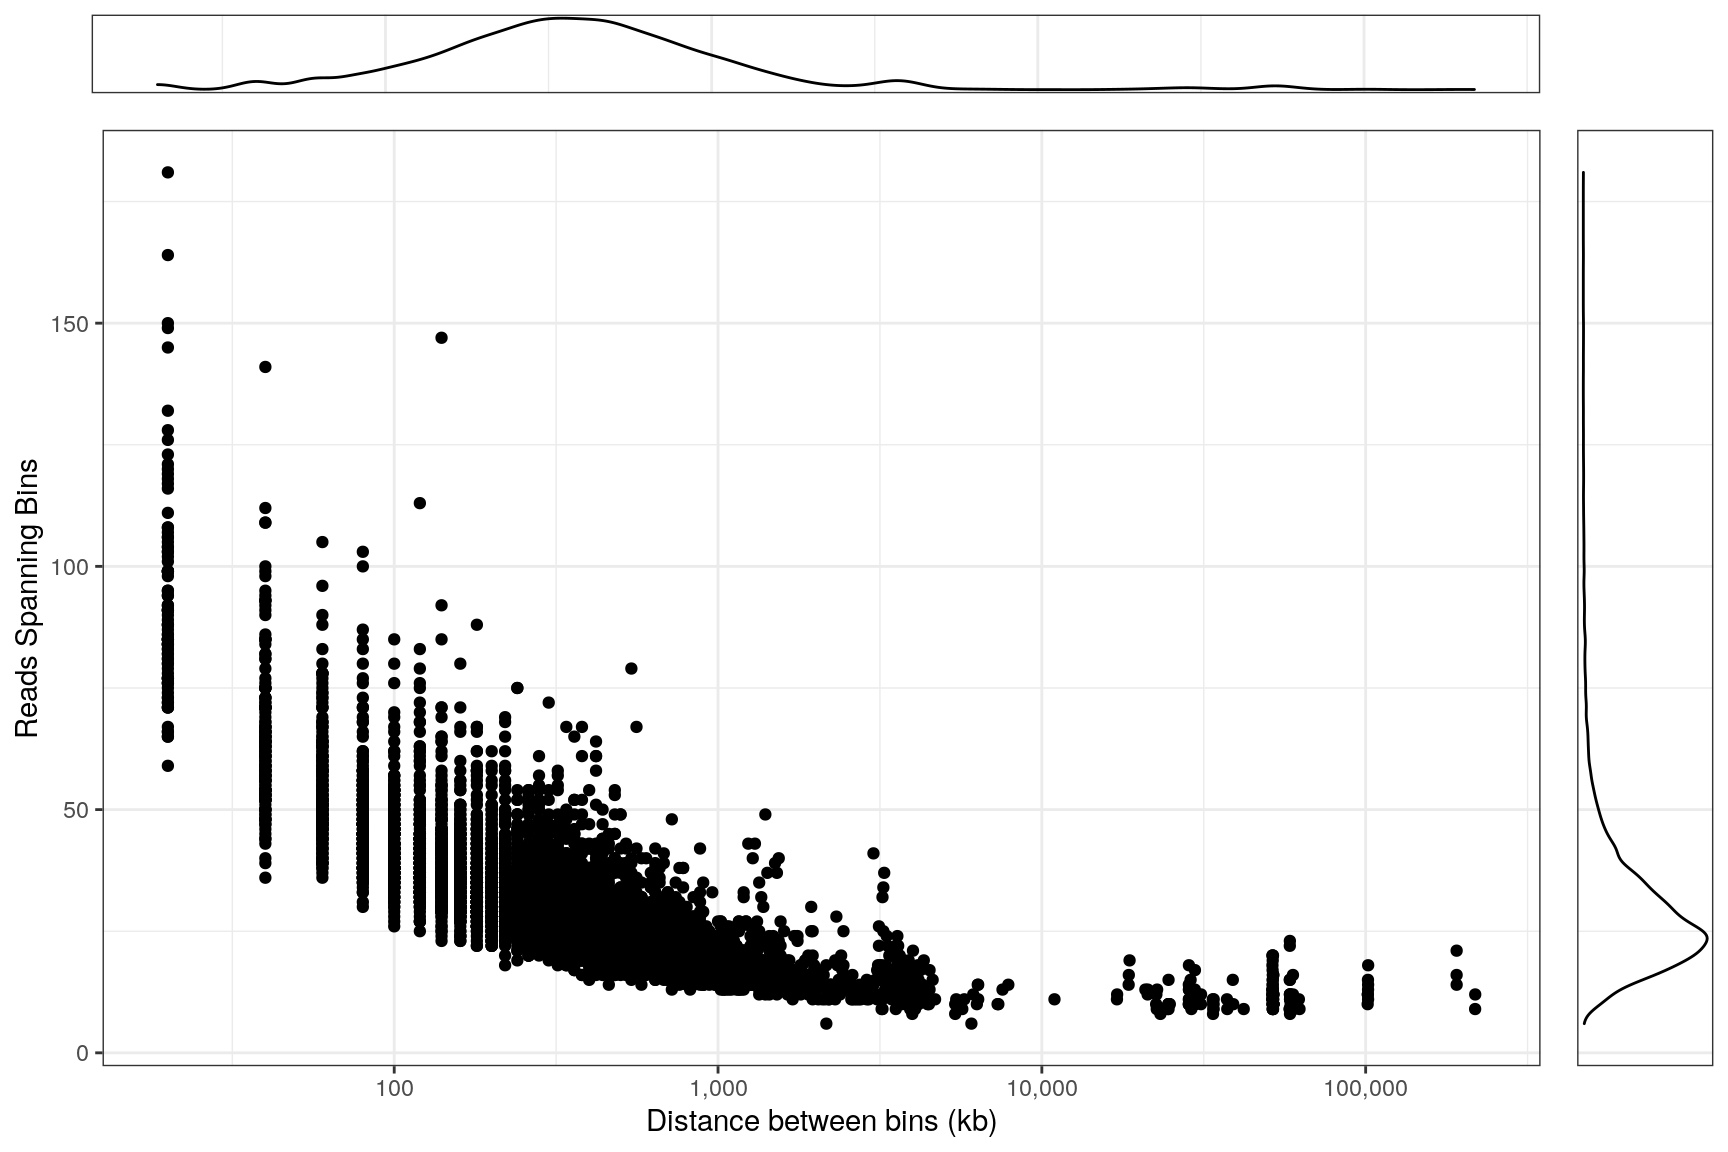
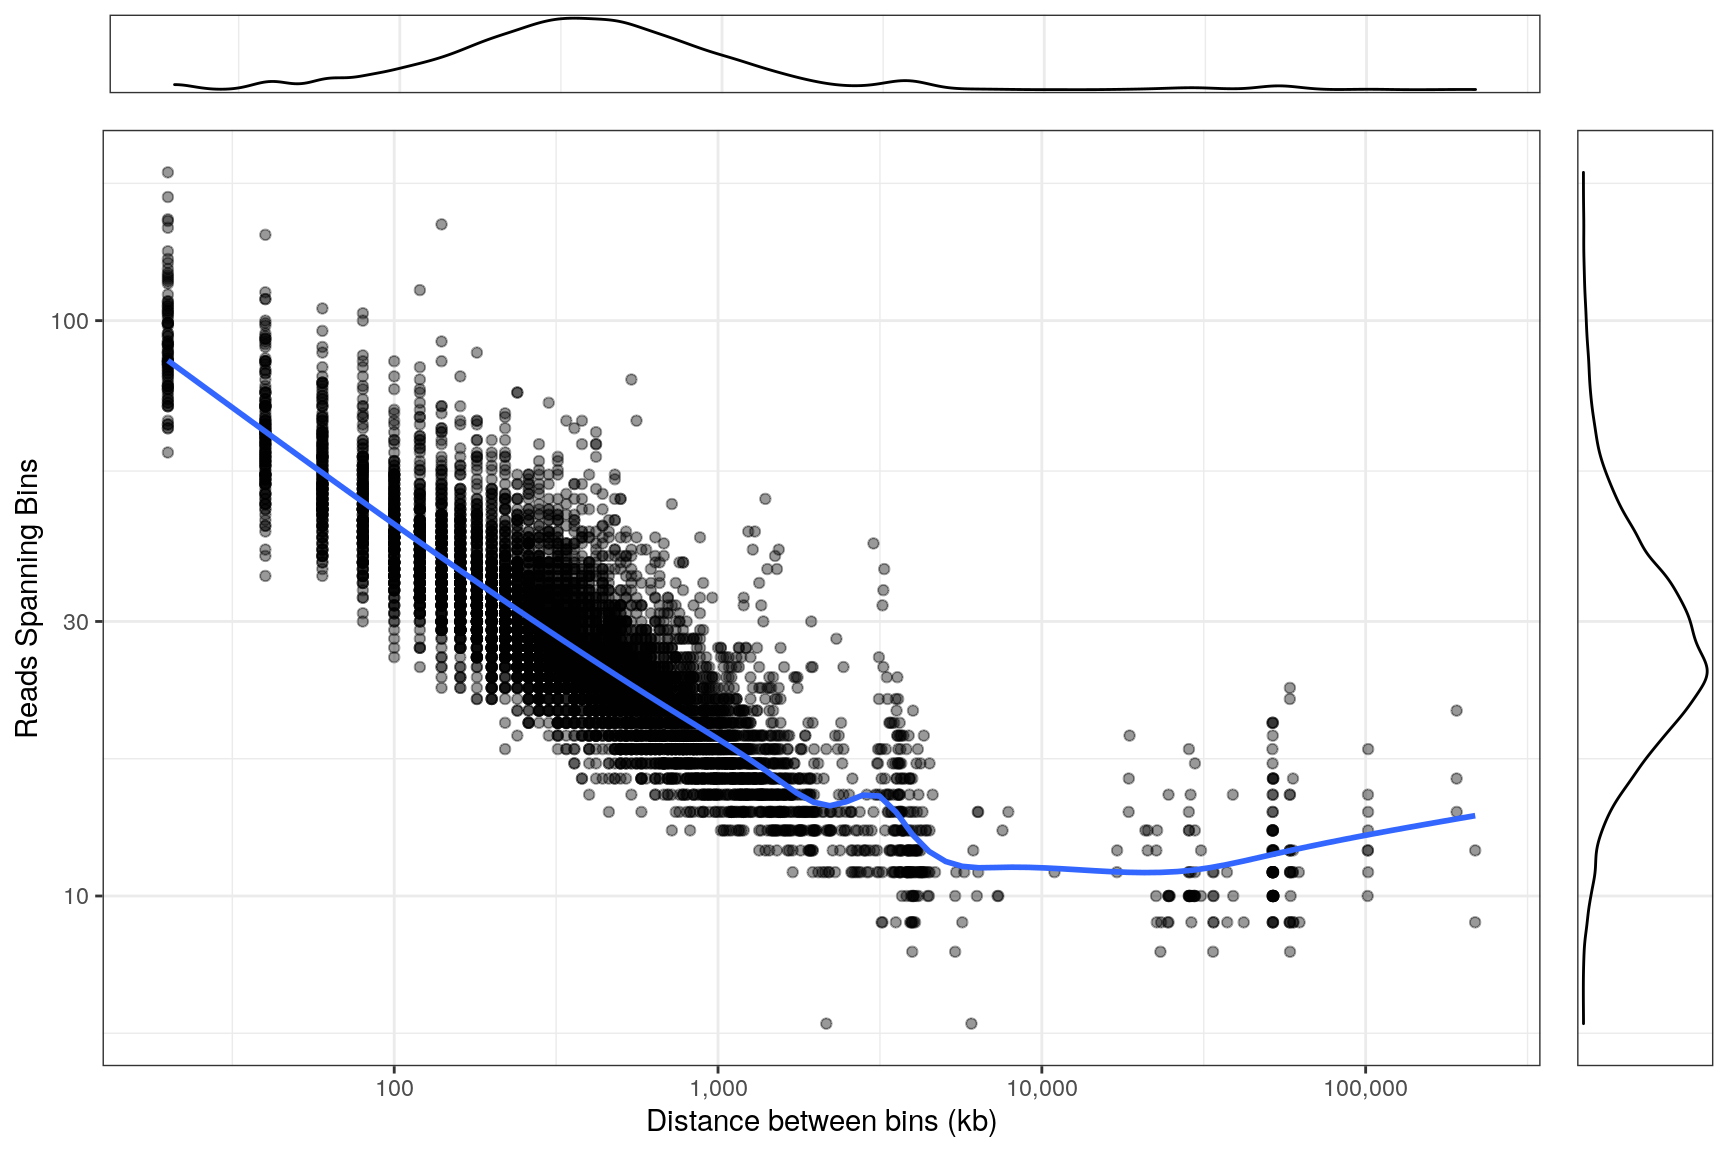
Build site.

diff --git a/docs/interactions_setup.html b/docs/interactions_setup.html
@@ -429,7 +429,7 @@ div.tocify {
 
 <h1 class="title toc-ignore">Interactions Setup</h1>
 <h4 class="author">Stephen Pederson<br>Dame Roma Mitchell Cancer Research Laboratories<br>Adelaide Medical School<br>University of Adelaide</h4>
-<h4 class="date">23 November, 2020</h4>
+<h4 class="date">24 November, 2020</h4>
 
 </div>
 
@@ -454,7 +454,7 @@ div.tocify {
 <div class="tab-content">
 <div id="summary" class="tab-pane fade in active">
 <p>
-<strong>Last updated:</strong> 2020-11-23
+<strong>Last updated:</strong> 2020-11-24
 </p>
 <p>
 <strong>Checks:</strong> <span class="glyphicon glyphicon-ok text-success" aria-hidden="true"></span> 7 <span class="glyphicon glyphicon-exclamation-sign text-danger" aria-hidden="true"></span> 0
@@ -545,16 +545,16 @@ This reproducible <a href="http://rmarkdown.rstudio.com">R Markdown</a> analysis
 <div class="panel panel-default">
 <div class="panel-heading">
 <p class="panel-title">
-<a data-toggle="collapse" data-parent="#workflowr-checks" href="#strongRepositoryversionstrongahrefhttpsgithubcomDRMCRLENCODET47DHiCENCSR549MGQtree3a30d29063c4a21f7cc84a441f0e458369fae1c7targetblank3a30d29a"> <span class="glyphicon glyphicon-ok text-success" aria-hidden="true"></span> <strong>Repository version:</strong> <a href="https://github.com/DRMCRL/ENCODE_T47D_HiC_ENCSR549MGQ/tree/3a30d29063c4a21f7cc84a441f0e458369fae1c7" target="_blank">3a30d29</a> </a>
+<a data-toggle="collapse" data-parent="#workflowr-checks" href="#strongRepositoryversionstrongahrefhttpsgithubcomDRMCRLENCODET47DHiCENCSR549MGQtreea387c7d31362fff2c24c845fd83880e94b79ca89targetblanka387c7da"> <span class="glyphicon glyphicon-ok text-success" aria-hidden="true"></span> <strong>Repository version:</strong> <a href="https://github.com/DRMCRL/ENCODE_T47D_HiC_ENCSR549MGQ/tree/a387c7d31362fff2c24c845fd83880e94b79ca89" target="_blank">a387c7d</a> </a>
 </p>
 </div>
[2 lines of base64/hex data omitted]
 <div class="panel-body">
 <p>
 Great! You are using Git for version control. Tracking code development and connecting the code version to the results is critical for reproducibility.
 </p>
 <p>
-The results in this page were generated with repository version <a href="https://github.com/DRMCRL/ENCODE_T47D_HiC_ENCSR549MGQ/tree/3a30d29063c4a21f7cc84a441f0e458369fae1c7" target="_blank">3a30d29</a>. See the <em>Past versions</em> tab to see a history of the changes made to the R Markdown and HTML files.
+The results in this page were generated with repository version <a href="https://github.com/DRMCRL/ENCODE_T47D_HiC_ENCSR549MGQ/tree/a387c7d31362fff2c24c845fd83880e94b79ca89" target="_blank">a387c7d</a>. See the <em>Past versions</em> tab to see a history of the changes made to the R Markdown and HTML files.
 </p>
 <p>
 Note that you need to be careful to ensure that all relevant files for the analysis have been committed to Git prior to generating the results (you can use <code>wflow_publish</code> or <code>wflow_git_commit</code>). workflowr only checks the R Markdown file, but you know if there are other scripts or data files that it depends on. Below is the status of the Git repository when the results were generated:
@@ -564,12 +564,14 @@ Ignored files:
     Ignored:    .Rhistory
     Ignored:    .Rproj.user/
     Ignored:    .snakemake/
+    Ignored:    analysis/figure/
     Ignored:    data/external/H3K27AC/bam/
     Ignored:    data/external/H3K27AC/bigwig/
     Ignored:    data/external/gencode.v33lift37.annotation.gtf.gz
     Ignored:    output/MaxHiC/
 
 Unstaged changes:
+    Modified:   output/gi_100000.rds
     Modified:   output/gi_20000.rds
 
 </code></pre>
@@ -609,6 +611,40 @@ Message
 </tr>
 </thead>
 <tbody>
+<tr>
+<td>
+Rmd
+</td>
+<td>
+<a href="https://github.com/DRMCRL/ENCODE_T47D_HiC_ENCSR549MGQ/blob/a387c7d31362fff2c24c845fd83880e94b79ca89/analysis/interactions_setup.Rmd" target="_blank">a387c7d</a>
+</td>
+<td>
+Steve Ped
+</td>
+<td>
+2020-11-24
+</td>
+<td>
+Updated 100kb bins &amp; changed to log scale on y-axis
+</td>
+</tr>
+<tr>
+<td>
+html
+</td>
+<td>
+<a href="https://rawcdn.githack.com/DRMCRL/ENCODE_T47D_HiC_ENCSR549MGQ/3689c88fd24d4d3da01a2fe32c3671c1fc286c74/docs/interactions_setup.html" target="_blank">3689c88</a>
+</td>
+<td>
+Steve Ped
+</td>
+<td>
+2020-11-23
+</td>
+<td>
+Build site.
+</td>
+</tr>
 <tr>
 <td>
 Rmd
@@ -1040,8 +1076,10 @@ Steve Ped
 <pre class="r"><code>a &lt;- mcols(gi) %&gt;% 
   as.data.frame %&gt;% 
   ggplot(aes(distance/1e3, counts)) + 
-  geom_point() + 
+  geom_point(alpha = 0.4) + 
+  geom_smooth(se = FALSE, method = &quot;gam&quot;, formula = y ~ s(x, bs = &quot;cs&quot;)) +
   scale_x_log10(labels = comma) +
+  scale_y_log10() +
   labs(
     x = &quot;Distance between bins (kb)&quot;,
     y = &quot;Reads Spanning Bins&quot;
@@ -1052,6 +1090,7 @@ b &lt;- mcols(gi) %&gt;%
   geom_density() + 
   coord_flip() + 
   labs(x = c(), y = &quot;&quot;) +
+  scale_x_log10() +
   theme(
     axis.text = element_blank(), 
     panel.grid.major.x =  element_blank(),
@@ -1073,7 +1112,7 @@ c &lt;- mcols(gi) %&gt;%
     axis.ticks.x = element_blank()
   )
 plot_grid(
-  plot_grid(ngsReports:::.emptyPlot(&quot;&quot;), c, ngsReports:::.emptyPlot(&quot;&quot;), rel_widths = c(0.02, 0.896, 0.102), nrow = 1),
+  plot_grid(ngsReports:::.emptyPlot(&quot;&quot;), c, ngsReports:::.emptyPlot(&quot;&quot;), rel_widths = c(0.03, 0.87, 0.1), nrow = 1),
   plot_grid(a, b, rel_widths = c(0.9, 0.1), align = &quot;h&quot;),
   rel_heights = c(0.1, 0.9), nrow = 2, align = &quot;v&quot;, axis = &quot;r&quot;
 )</code></pre>
@@ -1105,6 +1144,17 @@ Date
 </tr>
 </thead>
 <tbody>
+<tr>
+<td>
+<a href="https://github.com/DRMCRL/ENCODE_T47D_HiC_ENCSR549MGQ/blob/3689c88fd24d4d3da01a2fe32c3671c1fc286c74/docs/figure/interactions_setup.Rmd/plotIntDist10-1.png" target="_blank">3689c88</a>
+</td>
+<td>
+Steve Ped
+</td>
+<td>
+2020-11-23
+</td>
+</tr>
 <tr>
 <td>
 <a href="https://github.com/DRMCRL/ENCODE_T47D_HiC_ENCSR549MGQ/blob/b0e47c8fce748fb4d36f91eb0b99a0ff620f950f/docs/figure/interactions_setup.Rmd/plotIntDist10-1.png" target="_blank">b0e47c8</a>
@@ -1259,8 +1309,10 @@ Steve Ped
 <pre class="r"><code>a &lt;- mcols(gi) %&gt;% 
   as.data.frame %&gt;% 
   ggplot(aes(distance/1e3, counts)) + 
-  geom_point() + 
+  geom_point(alpha = 0.4) + 
+  geom_smooth(se = FALSE, method = &quot;gam&quot;, formula = y ~ s(x, bs = &quot;cs&quot;)) +
   scale_x_log10(labels = comma) +
+  scale_y_log10() +
   labs(
     x = &quot;Distance between bins (kb)&quot;,
     y = &quot;Reads Spanning Bins&quot;
@@ -1271,6 +1323,7 @@ b &lt;- mcols(gi) %&gt;%
   geom_density() + 
   coord_flip() + 
   labs(x = c(), y = &quot;&quot;) +
+  scale_x_log10() +
   theme(
     axis.text = element_blank(), 
     panel.grid.major.x =  element_blank(),
@@ -1292,7 +1345,7 @@ c &lt;- mcols(gi) %&gt;%
     axis.ticks.x = element_blank()
   )
 plot_grid(
-  plot_grid(ngsReports:::.emptyPlot(&quot;&quot;), c, ngsReports:::.emptyPlot(&quot;&quot;), rel_widths = c(0.02, 0.896, 0.102), nrow = 1),
+  plot_grid(ngsReports:::.emptyPlot(&quot;&quot;), c, ngsReports:::.emptyPlot(&quot;&quot;), rel_widths = c(0.03, 0.87, 0.1), nrow = 1),
   plot_grid(a, b, rel_widths = c(0.9, 0.1), align = &quot;h&quot;),
   rel_heights = c(0.1, 0.9), nrow = 2, align = &quot;v&quot;, axis = &quot;r&quot;
 )</code></pre>
@@ -1324,6 +1377,17 @@ Date
 </tr>
 </thead>
 <tbody>
+<tr>
+<td>
+<a href="https://github.com/DRMCRL/ENCODE_T47D_HiC_ENCSR549MGQ/blob/3689c88fd24d4d3da01a2fe32c3671c1fc286c74/docs/figure/interactions_setup.Rmd/plotIntDist20-1.png" target="_blank">3689c88</a>
+</td>
+<td>
+Steve Ped
+</td>
+<td>
+2020-11-23
+</td>
+</tr>
 <tr>
 <td>
 <a href="https://github.com/DRMCRL/ENCODE_T47D_HiC_ENCSR549MGQ/blob/b0e47c8fce748fb4d36f91eb0b99a0ff620f950f/docs/figure/interactions_setup.Rmd/plotIntDist20-1.png" target="_blank">b0e47c8</a>
@@ -1456,8 +1520,10 @@ Steve Ped
 <pre class="r"><code>a &lt;- mcols(gi) %&gt;% 
   as.data.frame %&gt;% 
   ggplot(aes(distance/1e3, counts)) + 
-  geom_point() + 
+  geom_point(alpha = 0.4) + 
+  geom_smooth(se = FALSE, method = &quot;gam&quot;, formula = y ~ s(x, bs = &quot;cs&quot;)) +
   scale_x_log10(labels = comma) +
+  scale_y_log10() +
   labs(
     x = &quot;Distance between bins (kb)&quot;,
     y = &quot;Reads Spanning Bins&quot;
@@ -1468,6 +1534,7 @@ b &lt;- mcols(gi) %&gt;%
   geom_density() + 
   coord_flip() + 
   labs(x = c(), y = &quot;&quot;) +
+  scale_x_log10() +
   theme(
     axis.text = element_blank(), 
     panel.grid.major.x =  element_blank(),
@@ -1489,7 +1556,7 @@ c &lt;- mcols(gi) %&gt;%
     axis.ticks.x = element_blank()
   )
 plot_grid(
-  plot_grid(ngsReports:::.emptyPlot(&quot;&quot;), c, ngsReports:::.emptyPlot(&quot;&quot;), rel_widths = c(0.02, 0.896, 0.102), nrow = 1),
+  plot_grid(ngsReports:::.emptyPlot(&quot;&quot;), c, ngsReports:::.emptyPlot(&quot;&quot;), rel_widths = c(0.03, 0.87, 0.1), nrow = 1),
   plot_grid(a, b, rel_widths = c(0.9, 0.1), align = &quot;h&quot;),
   rel_heights = c(0.1, 0.9), nrow = 2, align = &quot;v&quot;, axis = &quot;r&quot;
 )</code></pre>
@@ -1523,6 +1590,17 @@ Date
 <tbody>
 <tr>
 <td>
+<a href="https://github.com/DRMCRL/ENCODE_T47D_HiC_ENCSR549MGQ/blob/3689c88fd24d4d3da01a2fe32c3671c1fc286c74/docs/figure/interactions_setup.Rmd/plotIntDist40-1.png" target="_blank">3689c88</a>
+</td>
+<td>
+Steve Ped
+</td>
+<td>
+2020-11-23
+</td>
+</tr>
+<tr>
+<td>
 <a href="https://github.com/DRMCRL/ENCODE_T47D_HiC_ENCSR549MGQ/blob/b0e47c8fce748fb4d36f91eb0b99a0ff620f950f/docs/figure/interactions_setup.Rmd/plotIntDist40-1.png" target="_blank">b0e47c8</a>
 </td>
 <td>
@@ -1552,20 +1630,26 @@ gc()</code></pre>
 <pre class="r"><code>cis_int &lt;- vroom(
   glue(&quot;output/MaxHiC/merged/{sz}/cis_interactions.txt.gz&quot;),
   col_types = &quot;dddd-d--&quot;
-)</code></pre>
+)
+fdr &lt;- p.adjust(exp(-cis_int$neg_ln_p_val), &quot;fdr&quot;)
+keepInt &lt;- fdr &lt; 0.05</code></pre>
 <p>By default, any bin pairs with no observed interactions were excluded from the Max-HiC output. Using 100kb bins, a total of 12,144,630 non-zero interactions were observed between bin pairs. The median observed interaction count was 2, whilst the maximum was 1040.</p>
 <p>By default, the FDR provided by Max-HiC is incorrect and was ignored. The MaxHiC output was defined as a <code>GInteractions</code> object, with correct FDR added and interactions filtered for those with an FDR &lt; 0.05</p>
+<pre class="r"><code>gc()</code></pre>
+<pre><code>           used  (Mb) gc trigger   (Mb)  max used   (Mb)
+Ncells  9290980 496.2   17442707  931.6  17442707  931.6
+Vcells 59835974 456.6  232329210 1772.6 506723439 3866.0</code></pre>
 <pre class="r"><code>gi &lt;- GInteractions(
-  anchor1 = bins[as.integer(cis_int$bin1ID)],
-  anchor2 = bins[as.integer(cis_int$bin2ID)],
-  counts = as.integer(cis_int$observed_interactions),
-  exp_interactions = cis_int$exp_interactions,
-  p = exp(-cis_int$neg_ln_p_val)
+  anchor1 = bins[as.integer(cis_int$bin1ID[keepInt])],
+  anchor2 = bins[as.integer(cis_int$bin2ID[keepInt])],
+  counts = as.integer(cis_int$observed_interactions[keepInt]),
+  exp_interactions = cis_int$exp_interactions[keepInt],
+  p = exp(-cis_int$neg_ln_p_val)[keepInt],
+  fdr = fdr[keepInt]
 )
-seqinfo(gi) &lt;- sq
-gi$fdr &lt;- p.adjust(gi$p, &quot;fdr&quot;)
 gi$distance &lt;- pairdist(gi)
-gi$logObsExp &lt;- log2(gi$counts / gi$exp_interactions)</code></pre>
+gi$logObsExp &lt;- log2(gi$counts / gi$exp_interactions)
+seqinfo(gi) &lt;- sq</code></pre>
 <pre class="r"><code>gi &lt;- subset(gi, fdr &lt; 0.05)
 write_rds(
   gi,
@@ -1581,6 +1665,8 @@ gc()</code></pre>
 <li>42,213 bin-pair interactions were retained.</li>
 <li>The observed interactions between bins ranged between <em>1</em> and <em>764</em></li>
 <li>The log<sub>2</sub> ratio of of observed to expected counts ranged between <em>1.32</em> and <em>6.38</em>. These values represent enrichment for interactions well above that expected by the background model.</li>
+<li>The median interaction distance was 1800kb</li>
+<li>The longest interaction was between bins separated by 222.7Mb</li>
 </ul>
 <pre class="r"><code>gi %&gt;%
   anchors(&quot;first&quot;) %&gt;%
@@ -1646,6 +1732,55 @@ Steve Ped
 </table>
 </div>
 </div>
+<pre class="r"><code>a &lt;- mcols(gi) %&gt;% 
+  as.data.frame %&gt;% 
+  ggplot(aes(distance/1e3, counts)) + 
+  geom_point(alpha = 0.4) + 
+  geom_smooth(se = FALSE, method = &quot;gam&quot;, formula = y ~ s(x, bs = &quot;cs&quot;)) +
+  scale_x_log10(labels = comma) +
+  scale_y_log10() +
+  labs(
+    x = &quot;Distance between bins (kb)&quot;,
+    y = &quot;Reads Spanning Bins&quot;
+  )
+b &lt;- mcols(gi) %&gt;%
+  as.data.frame %&gt;% 
+  ggplot(aes(counts, stat(density))) + 
+  geom_density() + 
+  coord_flip() + 
+  labs(x = c(), y = &quot;&quot;) +
+  scale_x_log10() +
+  theme(
+    axis.text = element_blank(), 
+    panel.grid.major.x =  element_blank(),
+    panel.grid.minor.x = element_blank(),
+    axis.ticks.x = element_blank(),
+    axis.ticks.y = element_blank()
+    )
+c &lt;- mcols(gi) %&gt;%
+  as.data.frame %&gt;% 
+  ggplot(aes(distance/1e3, stat(density))) + 
+  geom_density() + 
+  scale_x_log10() +
+  labs(x = c(), y = &quot;&quot;) +
+  theme(
+    panel.grid.major.y = element_blank(),
+    panel.grid.minor.y = element_blank(),
+    axis.text = element_blank(),
+    axis.ticks.y = element_blank(), 
+    axis.ticks.x = element_blank()
+  )
+plot_grid(
+  plot_grid(ngsReports:::.emptyPlot(&quot;&quot;), c, ngsReports:::.emptyPlot(&quot;&quot;), rel_widths = c(0.03, 0.87, 0.1), nrow = 1),
+  plot_grid(a, b, rel_widths = c(0.9, 0.1), align = &quot;h&quot;),
+  rel_heights = c(0.1, 0.9), nrow = 2, align = &quot;v&quot;, axis = &quot;r&quot;
+)</code></pre>
+<div class="figure" style="text-align: center">
+<img src="figure/interactions_setup.Rmd/plotIntDist100-1.png" alt="*Relationship between counts and distance using 100kb bins*" width="864" />
+<p class="caption">
+<em>Relationship between counts and distance using 100kb bins</em>
+</p>
+</div>
 <pre class="r"><code>rm(gi)
 rm(cis_int)
 gc()</code></pre>
@@ -1699,33 +1834,34 @@ loaded via a namespace (and not attached):
  [7] fs_1.5.0                 rstudioapi_0.11          farver_2.0.3            
 [10] ggrepel_0.8.2            DT_0.16                  bit64_4.0.5             
 [13] fansi_0.4.1              lubridate_1.7.9          xml2_1.3.2              
-[16] leaps_3.1                knitr_1.30               jsonlite_1.7.1          
-[19] ngsReports_1.6.1         Rsamtools_2.6.0          broom_0.7.2             
-[22] cluster_2.1.0            dbplyr_2.0.0             png_0.1-7               
-[25] compiler_4.0.3           httr_1.4.2               backports_1.2.0         
-[28] lazyeval_0.2.2           assertthat_0.2.1         Matrix_1.2-18           
-[31] cli_2.1.0                later_1.1.0.1            htmltools_0.5.0         
-[34] tools_4.0.3              gtable_0.3.0             GenomeInfoDbData_1.2.4  
-[37] reshape2_1.4.4           FactoMineR_2.3           ShortRead_1.48.0        
-[40] Rcpp_1.0.5               cellranger_1.1.0         vctrs_0.3.4             
-[43] Biostrings_2.58.0        xfun_0.19                rvest_0.3.6             
-[46] lifecycle_0.2.0          XML_3.99-0.5             zoo_1.8-8               
-[49] zlibbioc_1.36.0          MASS_7.3-53              hms_0.5.3               
-[52] promises_1.1.1           RColorBrewer_1.1-2       latticeExtra_0.6-29     
-[55] stringi_1.5.3            highr_0.8                BiocParallel_1.24.0     
-[58] rlang_0.4.8              pkgconfig_2.0.3          bitops_1.0-6            
-[61] evaluate_0.14            lattice_0.20-41          GenomicAlignments_1.26.0
-[64] htmlwidgets_1.5.2        labeling_0.4.2           bit_4.0.4               
-[67] tidyselect_1.1.0         here_0.1                 plyr_1.8.6              
-[70] R6_2.5.0                 generics_0.1.0           DelayedArray_0.16.0     
-[73] DBI_1.1.0                pillar_1.4.6             haven_2.3.1             
-[76] whisker_0.4              withr_2.3.0              scatterplot3d_0.3-41    
-[79] RCurl_1.98-1.2           modelr_0.1.8             crayon_1.3.4            
-[82] plotly_4.9.2.1           rmarkdown_2.5            jpeg_0.1-8.1            
-[85] grid_4.0.3               readxl_1.3.1             data.table_1.13.2       
-[88] git2r_0.27.1             reprex_0.3.0             digest_0.6.27           
-[91] flashClust_1.01-2        httpuv_1.5.4             munsell_0.5.0           
-[94] viridisLite_0.3.0       </code></pre>
+[16] splines_4.0.3            leaps_3.1                knitr_1.30              
+[19] jsonlite_1.7.1           ngsReports_1.6.1         Rsamtools_2.6.0         
+[22] broom_0.7.2              cluster_2.1.0            dbplyr_2.0.0            
+[25] png_0.1-7                compiler_4.0.3           httr_1.4.2              
+[28] backports_1.2.0          lazyeval_0.2.2           assertthat_0.2.1        
+[31] Matrix_1.2-18            cli_2.1.0                later_1.1.0.1           
+[34] htmltools_0.5.0          tools_4.0.3              gtable_0.3.0            
+[37] GenomeInfoDbData_1.2.4   reshape2_1.4.4           FactoMineR_2.3          
+[40] ShortRead_1.48.0         Rcpp_1.0.5               cellranger_1.1.0        
+[43] vctrs_0.3.4              Biostrings_2.58.0        nlme_3.1-149            
+[46] xfun_0.19                rvest_0.3.6              lifecycle_0.2.0         
+[49] XML_3.99-0.5             zoo_1.8-8                zlibbioc_1.36.0         
+[52] MASS_7.3-53              hms_0.5.3                promises_1.1.1          
+[55] RColorBrewer_1.1-2       latticeExtra_0.6-29      stringi_1.5.3           
+[58] highr_0.8                BiocParallel_1.24.0      rlang_0.4.8             
+[61] pkgconfig_2.0.3          bitops_1.0-6             evaluate_0.14           
+[64] lattice_0.20-41          GenomicAlignments_1.26.0 htmlwidgets_1.5.2       
+[67] labeling_0.4.2           bit_4.0.4                tidyselect_1.1.0        
+[70] here_0.1                 plyr_1.8.6               R6_2.5.0                
+[73] generics_0.1.0           DelayedArray_0.16.0      DBI_1.1.0               
+[76] mgcv_1.8-33              pillar_1.4.6             haven_2.3.1             
+[79] whisker_0.4              withr_2.3.0              scatterplot3d_0.3-41    
+[82] RCurl_1.98-1.2           modelr_0.1.8             crayon_1.3.4            
+[85] plotly_4.9.2.1           rmarkdown_2.5            jpeg_0.1-8.1            
+[88] grid_4.0.3               readxl_1.3.1             data.table_1.13.2       
+[91] git2r_0.27.1             reprex_0.3.0             digest_0.6.27           
+[94] flashClust_1.01-2        httpuv_1.5.4             munsell_0.5.0           
+[97] viridisLite_0.3.0       </code></pre>
 </div>
 </div>
 </div>
